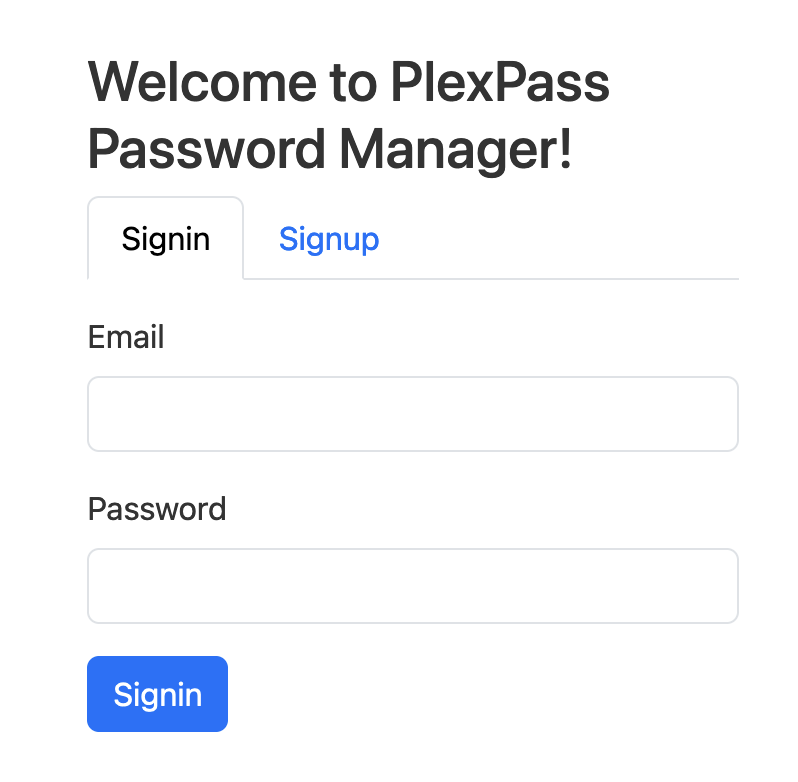
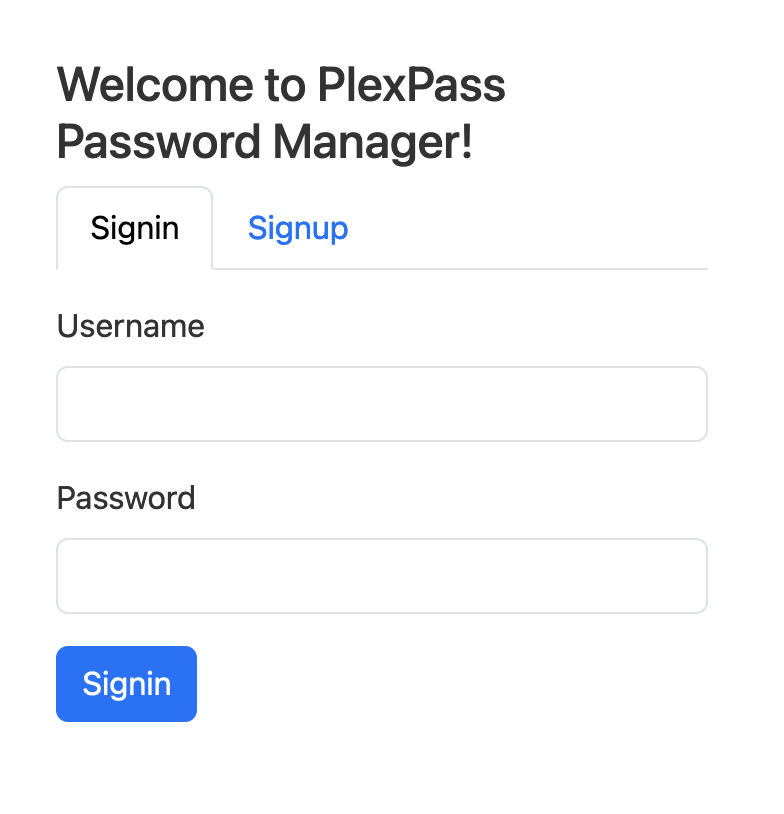
small cleanup

diff --git a/templates/signin.html b/templates/signin.html
@@ -41,7 +41,7 @@
 <body class="light-mode">
 
 <div class="container form-container">
-    <h3>Welcome to PlexPass Password Manager!</h3>
+    <h4>Welcome to PlexPass Password Manager!</h4>
 {% if false %}
     <div class="mb-3">
         <label class="form-label">Theme</label>
@@ -69,7 +69,7 @@
 	{% endif %}
             <form class="mt-3" method="POST" action="/ui/signin">
                 <div class="mb-3">
-                    <label class="form-label">Email</label>
+                    <label class="form-label">Username</label>
 		    <input name="username" type="username" value="{{username}}" class="form-control">
                 </div>
                 <div class="mb-3">
@@ -99,8 +99,8 @@
 		    <input name="name" type="text" value="{{name}}" class="form-control">
                 </div>
                 <div class="mb-3">
-                    <label class="form-label">Email</label>
-		    <input name="username" type="username" value="{{username}}" class="form-control">
+                    <label class="form-label">Username</label>
+		            <input name="username" type="username" value="{{username}}" class="form-control">
                 </div>
                 <div class="mb-3">
                     <label class="form-label">Master Password</label>
